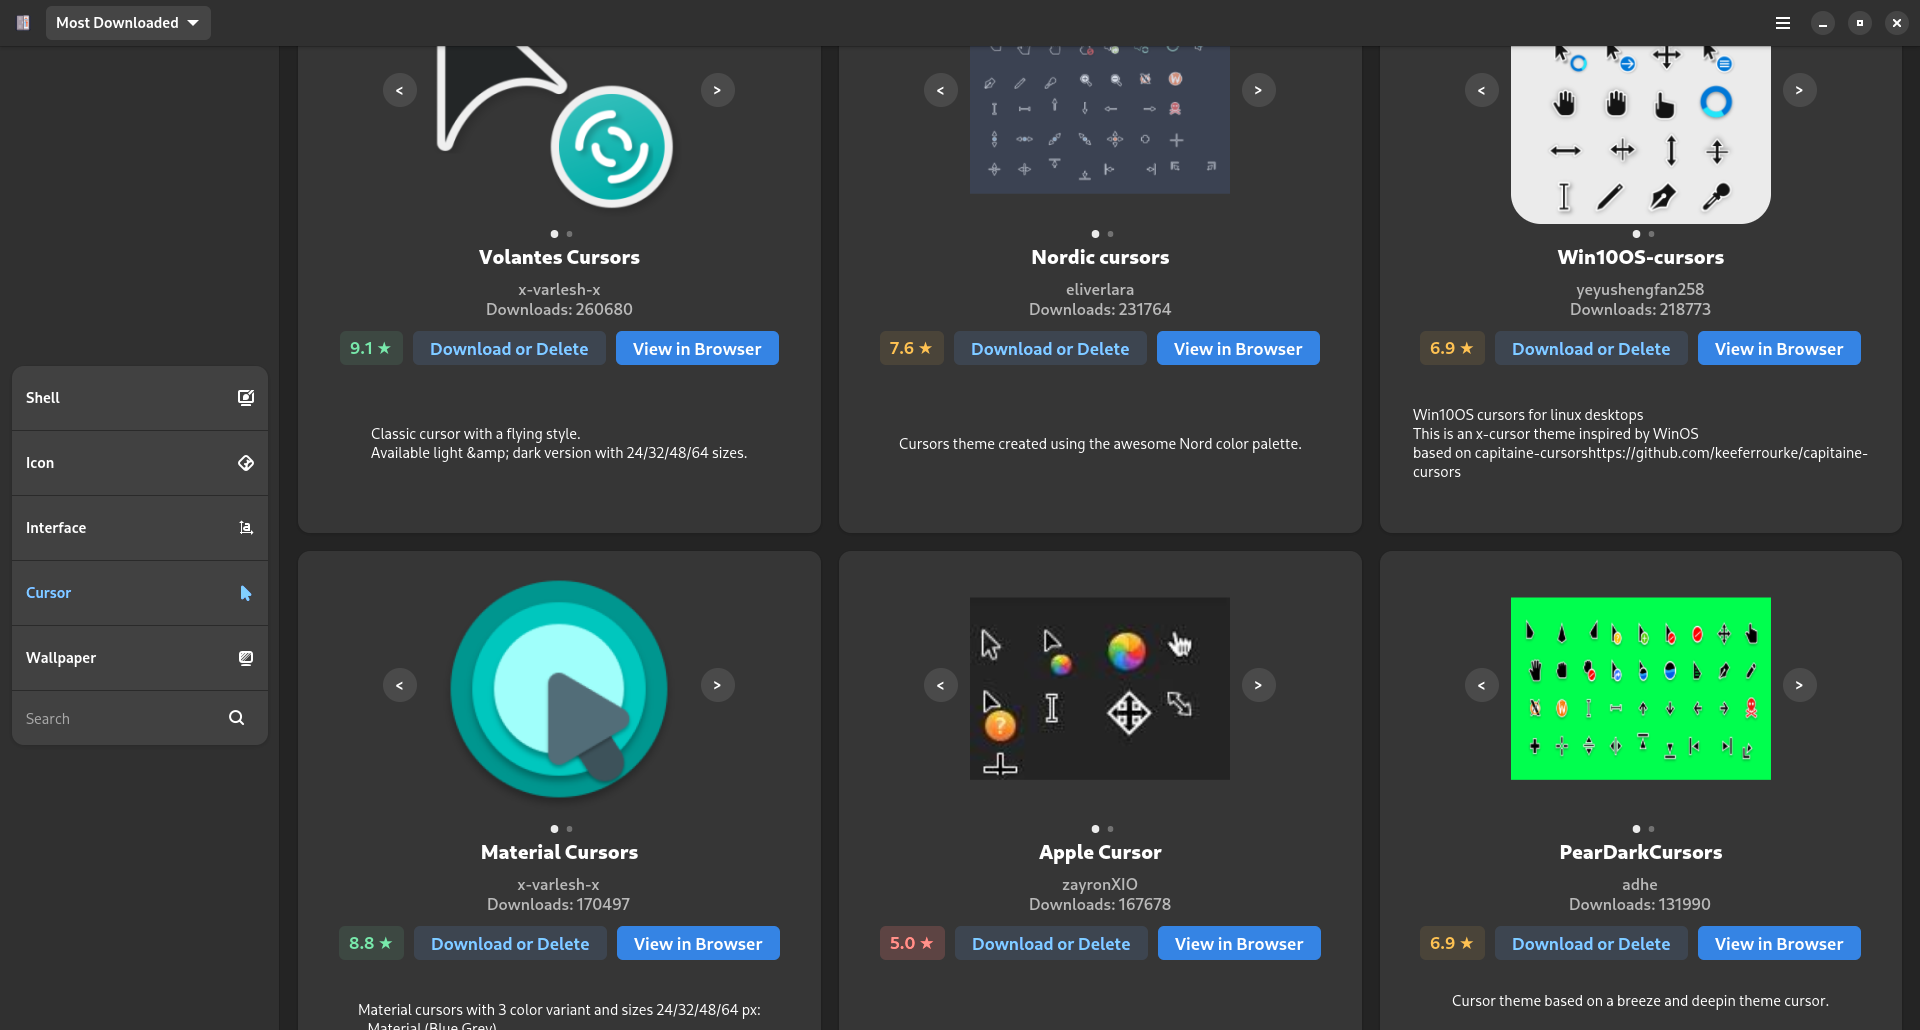
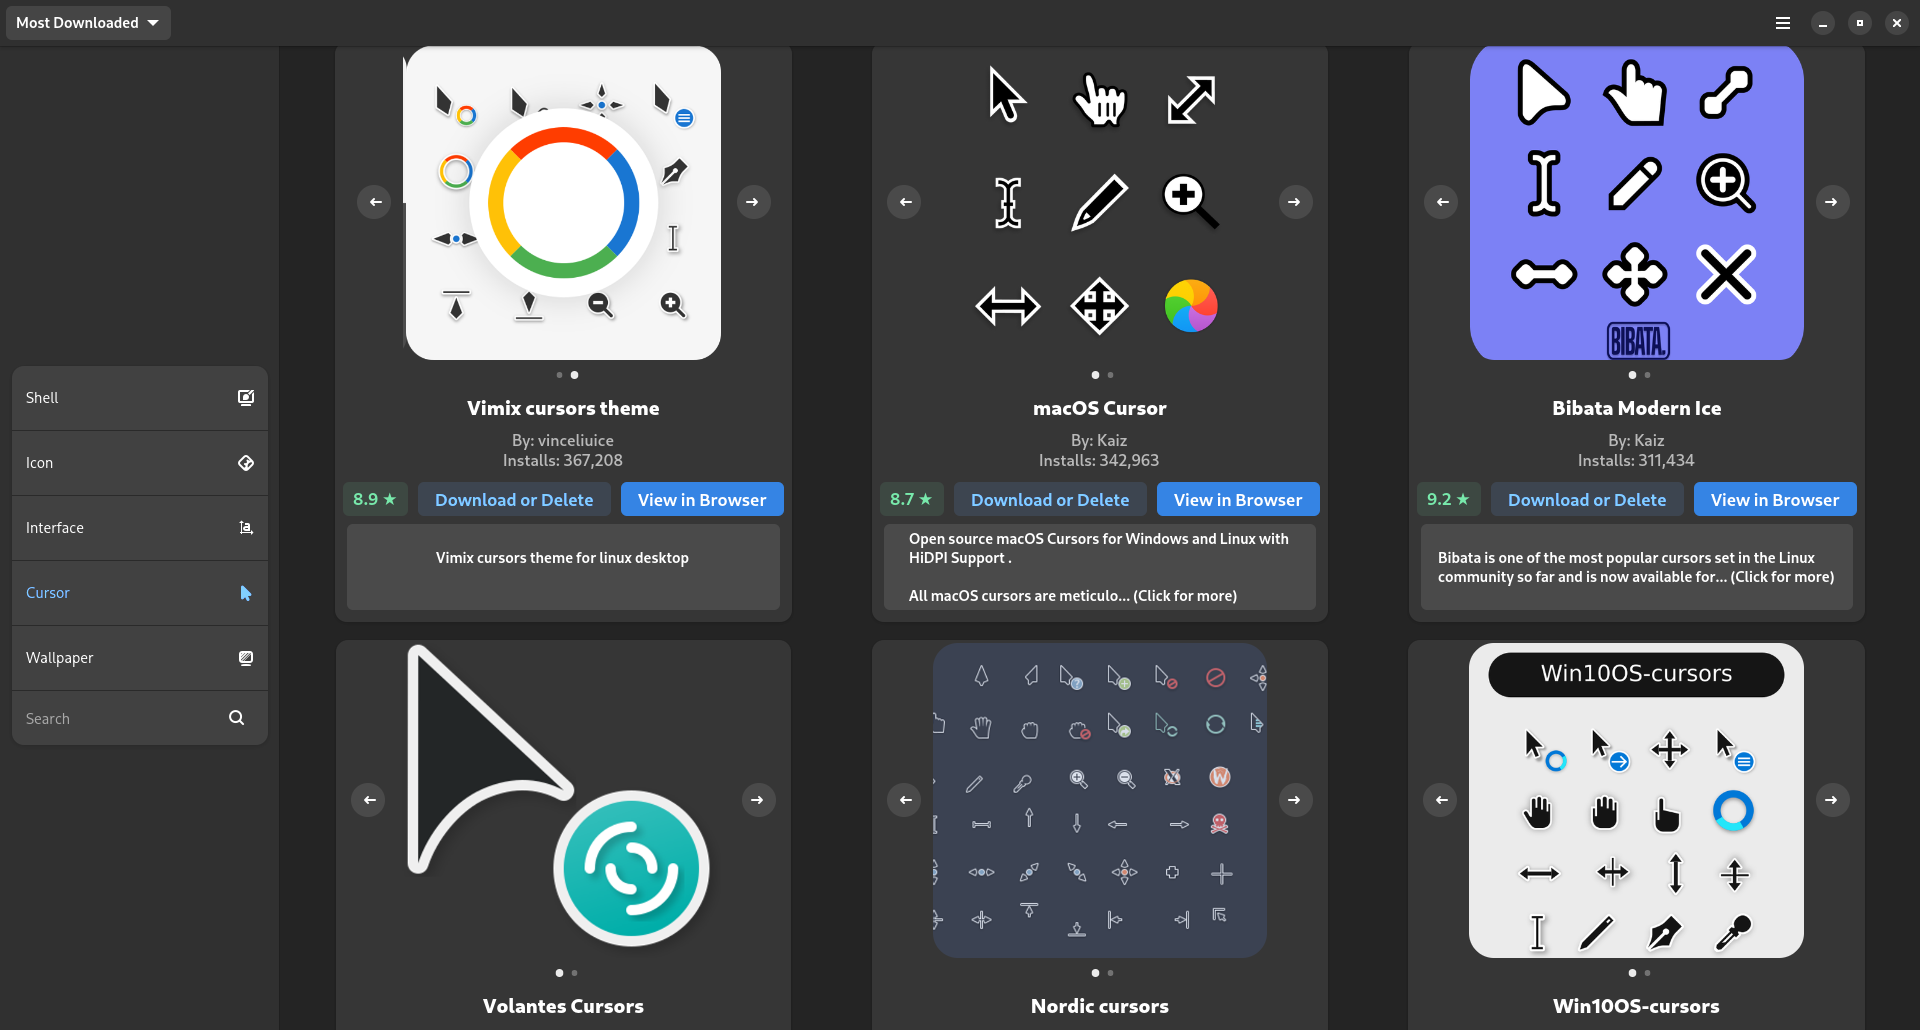
Files for v1.0.9

diff --git a/src/window.py b/src/window.py
@@ -40,10 +40,10 @@ class WardrobeWindow(Adw.ApplicationWindow):
     data_dir = GLib.getenv("HOST_XDG_DATA_HOME") #Should be ~/.local/share
     picture_dir = GLib.get_user_special_dir(GLib.UserDirectory.DIRECTORY_PICTURES) #Typically ~/Pictures
     folders = {
-        0: f"{data_dir}/themes/wardrobe-install",
-        1: f"{data_dir}/icons/wardrobe-install",
-        2: f"{data_dir}/themes/wardrobe-install",
-        3: f"{data_dir}/icons/wardrobe-install",
+        0: f"{data_dir}/themes/wardrobe-installs",
+        1: f"{data_dir}/icons/wardrobe-installs",
+        2: f"{data_dir}/themes/wardrobe-installs",
+        3: f"{data_dir}/icons/wardrobe-installs",
         4: f"{picture_dir}/",
         5: f"{GLib.get_user_data_dir()}"
     }
@@ -51,6 +51,7 @@ class WardrobeWindow(Adw.ApplicationWindow):
     activated = None
     category_box = None
     search_url = None
+    save_function = None
     error_label = Gtk.Label(label=_("No results found :("))
     error_label.add_css_class("error"); error_label.add_css_class("title-4")
 
@@ -184,7 +185,7 @@ class WardrobeWindow(Adw.ApplicationWindow):
             elif(str(type(child)) == "<class 'gi.repository.Gtk.Button'>" or str(type(child)) == "<class 'gi.repository.Gtk.Label'>"):
                 self.category_box.remove(child)
         if(not flowbox_in_theme_grid):
-            theme_grid = Gtk.FlowBox(row_spacing=12, homogeneous=False, max_children_per_line=5, selection_mode=Gtk.SelectionMode.NONE)
+            theme_grid = Gtk.FlowBox(row_spacing=12, max_children_per_line=5, selection_mode=Gtk.SelectionMode.NONE)
             self.category_box.append(theme_grid)
             scrollbox = Gtk.ScrolledWindow(vexpand=True, child=self.category_box)
             self.page.set_content(scrollbox)
@@ -226,7 +227,7 @@ class WardrobeWindow(Adw.ApplicationWindow):
         if(int(root.findall(".//meta")[0].find("itemsperpage").text) < self.cell_count):
             self.loading(False)
             return
-        next_page_button = Gtk.Button(label=_("Next Page"), vexpand=True, margin_top=10)
+        next_page_button = Gtk.Button(label=_("Next Page"), margin_top=10)
         self.category_box.append(next_page_button)
         next_page_button.connect("clicked", self.on_next_page_clicked)
 
@@ -253,21 +254,21 @@ class WardrobeWindow(Adw.ApplicationWindow):
 
         label = Gtk.Label(label=_(title), justify=Gtk.Justification.CENTER, wrap=True, margin_start=12, margin_end=12)
         label.add_css_class("title-2")
-        creator_label = Gtk.Label(label=_(creator) + "\nInstalls: " + downloads, justify=Gtk.Justification.CENTER, margin_bottom=12)
+        creator_label = Gtk.Label(label=(_("By: ")) + creator + (_("\nInstalls: ")) + downloads, justify=Gtk.Justification.CENTER, margin_bottom=12)
         creator_label.add_css_class("creator-title")
 
         label_box = Gtk.Box(orientation=Gtk.Orientation.VERTICAL, valign=Gtk.Align.CENTER, spacing=10)
         label_box.append(label)
         label_box.append(creator_label)
 
-        carousel_box = Gtk.Box()
-        carousel = Adw.Carousel(halign=Gtk.Align.CENTER, margin_top=8, allow_scroll_wheel=False)
+        carousel_box = Gtk.Box(height_request=315, margin_start=3, margin_end=3, margin_top=3)
+        carousel = Adw.Carousel(allow_scroll_wheel=False, hexpand=True)
         carousel_box.prepend(carousel)
+        main_box = Gtk.Box(orientation=Gtk.Orientation.VERTICAL, visible=False)
         for image in image_links:
-            self.get_image_from_url(image, _, carousel)
+            self.get_image_from_url(image, _, carousel, main_box)
 
-        indicators = Adw.CarouselIndicatorDots(carousel=carousel, halign=Gtk.Align.CENTER, margin_top=5)
-        main_box = Gtk.Box(orientation=Gtk.Orientation.VERTICAL)
+        indicators = Adw.CarouselIndicatorDots(carousel=carousel, halign=Gtk.Align.CENTER, margin_top=5, margin_bottom=10)
         main_box.append(indicators)
 
         button_box = Gtk.Box(orientation=Gtk.Orientation.HORIZONTAL, halign=Gtk.Align.CENTER, spacing=10, margin_start=8, margin_end=8, margin_bottom=8)
@@ -307,10 +308,13 @@ class WardrobeWindow(Adw.ApplicationWindow):
             prev_button.connect("clicked", self.on_prev_clicked, carousel)
             next_button.connect("clicked", self.on_next_clicked, carousel)
 
-        label_box.append(description_label)
-        main_box.prepend(carousel_box)
+        if(self.carousel_image_count == 0):
+            main_box.set_visible(True)
+        else:
+            main_box.prepend(carousel_box)
         main_box.append(label_box)
         main_box.append(button_box)
+        main_box.append(description_label)
         theme_box.prepend(main_box)
         cell = Gtk.Frame(child=theme_box); cell.add_css_class("card")
         clamp = Adw.Clamp(maximum_size=400, tightening_threshold=250, child=cell)
@@ -338,21 +342,21 @@ class WardrobeWindow(Adw.ApplicationWindow):
             index = 0
             carousel.scroll_to(carousel.get_nth_page(0), 250)
 
-    def get_carousel_images(self, session, result, message, carousel):
+    def get_carousel_images(self, session, result, message, carousel, main_box):
         bytes = session.send_and_read_finish(result)
         if(message.get_status() != Soup.Status.OK):
             raise Exception(f"Got {message.get_status()}, {message.get_reason_phrase()}")
-        image = Gtk.Image.new_from_paintable(Gdk.Texture.new_from_bytes(bytes))
-        # image.set_content_fit(Gtk.ContentFit.COVER)
-        image.set_pixel_size(280)
-        # clamp = Adw.Clamp(maximum_size=150, tightening_threshold=125, child=image, height_request=180)
+        image = Gtk.Picture(vexpand=True, hexpand=True).new_for_paintable(Gdk.Texture.new_from_bytes(bytes))
+        image.set_content_fit(Gtk.ContentFit.COVER)
         carousel.append(image)
+        main_box.set_visible(True)
+        image.add_css_class("rounded")
         self.loading(False)
 
-    def get_image_from_url(self, url, row, carousel):
+    def get_image_from_url(self, url, row, carousel, main_box):
         session = Soup.Session()
         message = Soup.Message(method="GET", uri=GLib.Uri.parse(url, GLib.UriFlags.NONE))
-        session.send_and_read_async(message, GLib.PRIORITY_DEFAULT, None, self.get_carousel_images, message, carousel)
+        session.send_and_read_async(message, GLib.PRIORITY_DEFAULT, None, self.get_carousel_images, message, carousel, main_box)
 
     def loading(self, activate):
         self.spinner.set_spinning(activate)
@@ -404,23 +408,23 @@ class WardrobeWindow(Adw.ApplicationWindow):
 
         file_path = shutil.os.path.join(folder_path, name)
 
-        def save_download(response):
-            with open(file_path, 'wb') as file:
-                file.write(response)
-            print(f'File downloaded successfully to {file_path}')
-
-            if(any(ext in file_path for ext in [".png", ".jpg", ".svg", ".jpeg", ".gif", ".bmp", ".webp", ".tiff", ".tif"])):
-                head_folders = [ file_path ]
-            else:
-                head_folders = arrange_folders(file_path, folder_path, index)
-                shutil.os.remove(file_path)
+        def save_download(head_folders):
             self.downloaded[name] = list(head_folders)
             writer = open(f"{self.folders[5]}/downloaded.txt", "w")
             writer.write(f"{self.downloaded}")
             writer.close()
             self.update_button_to_delete(button, name, link, index, list(head_folders))
 
-        self.soup_get(link, save_download)
+        def download_and_extract_file(response):
+            with open(file_path, 'wb') as file:
+                file.write(response)
+            print(f'File downloaded successfully to {file_path}')
+            if(any(ext in file_path for ext in [".png", ".jpg", ".svg", ".jpeg", ".gif", ".bmp", ".webp", ".tiff", ".tif"])):
+                save_download([file_path])
+            else:
+                arrange_folders(file_path, folder_path, index, save_download)
+
+        self.soup_get(link, download_and_extract_file)
 
     def update_button_to_delete(self, button, name, link, index, installed_folders):
         button.set_icon_name("user-trash-symbolic")
@@ -453,7 +457,7 @@ class WardrobeWindow(Adw.ApplicationWindow):
                 if(shutil.os.path.isdir(installed_folders[0])):
                     for root, dirs, files in shutil.os.walk(installed_folders[0]):
                         for file in files:
-                            if any(ext in file for ext in [".png", ".jpg", ".svg", ".jpeg", ".gif", ".bmp", ".webp", ".tiff", ".tif"]):
+                            if(any(ext in file for ext in [".png", ".jpg", ".svg", ".jpeg", ".gif", ".bmp", ".webp", ".tiff", ".tif"])):
                                 image = shutil.os.path.join(root, file)
                 else:
                     image = installed_folders[0]
@@ -515,3 +519,4 @@ class WardrobeWindow(Adw.ApplicationWindow):
 
     def on_view_button_clicked(self, button, theme_url):
         webbrowser.open(theme_url)
+

diff --git a/src/utils.py b/src/utils.py
@@ -20,12 +20,11 @@
 import os, shutil, gi, random
 
 gi.require_version('GnomeAutoar', '0.1')
-from gi.repository import GnomeAutoar, Gio, GLib
+from gi.repository import GnomeAutoar, Gio, GLib, Gdk, Gtk, GdkPixbuf
 
 #Some theme developers do not package the folders in their theme in the correct order
 #arrange_folders moves everything into the right order
-
-def arrange_folders(archive_path, theme_dir, index):
+def arrange_folders(archive_path, theme_dir, index, save_function):
     check_path = os.path.dirname(theme_dir)
     for item in os.listdir(check_path): #removes null symlinks
         if(os.path.islink(os.path.join(check_path, item))):
@@ -36,8 +35,9 @@ def arrange_folders(archive_path, theme_dir, index):
     archive_file = Gio.File.new_for_path(archive_path)
     destination_dir = Gio.File.new_for_path(theme_dir)
     extractor = GnomeAutoar.Extractor.new(archive_file, destination_dir)
+    extractor.set_delete_after_extraction(True)
 
-    def resolve_conflicts(extractor):
+    def resolve_conflicts(extractor, before, archive_path, theme_dir, index, save_function):
         # Get the directory contents after extraction
         after = set(os.listdir(theme_dir))
         added = after - before
@@ -57,7 +57,8 @@ def arrange_folders(archive_path, theme_dir, index):
 
         for download_dir in head_folders:
             if(index == 4):
-                return head_folders # Does not verify wallpapers
+                save_function(head_folders) # Does not verify wallpapers
+                return
             elif(index == 1):
                 icon_folders = os.listdir(download_dir)
                 added = {}
@@ -84,7 +85,8 @@ def arrange_folders(archive_path, theme_dir, index):
                     os.symlink(download_dir, f"{os.path.dirname(theme_dir)}/" + f"{os.path.basename(download_dir)}")
                 after = set(os.listdir(check_path))
                 added = list(after - before)
-                return list(head_folders.union(set(added)))
+                save_function(list(head_folders.union(set(added))))
+                return
             os.mkdir(download_dir + "-wardrobe_install"); new_path = download_dir + "-wardrobe_install"
             for folder_name in folders[index]:
                 for root, dirs, files in os.walk(download_dir, topdown=False):
@@ -105,12 +107,17 @@ def arrange_folders(archive_path, theme_dir, index):
             os.rename(new_path, new_path.replace("-wardrobe_install", ""))
             os.symlink(new_path.replace("-wardrobe_install", ""), f"{os.path.dirname(theme_dir)}/" + f"{os.path.basename(new_path.replace('-wardrobe_install', ''))}")
             head_folders.add(os.path.basename(new_path.replace('-wardrobe_install', '')))
-            return head_folders
+            save_function(head_folders)
+            return
 
     extractor.start_async()
-    extractor.connect("completed", resolve_conflicts)
+    extractor.connect("completed", resolve_conflicts, before, archive_path, theme_dir, index, save_function)
 
 css = """
+    .rounded {
+      border-radius: 25px;
+      border: 0px solid;
+    }
     .creator-title {
         opacity: 0.65;
         font-size: 12pt;
@@ -124,4 +131,3 @@ css = """
         border: 0px solid;
     }
 """
-

diff --git a/src/main.py b/src/main.py
@@ -44,7 +44,7 @@ class WardrobeApplication(Adw.Application):
         about = Adw.AboutDialog(application_name='Wardrobe',
                                 application_icon='io.github.swordpuffin.wardrobe',
                                 developer_name='Nathan Perlman',
-                                version='1.0.7',
+                                version='1.0.9',
                                 developers=['Nathan Perlman'],
                                 copyright='© 2025 Nathan Perlman')
         # Translators: Replace "translator-credits" with your name/username, and optionally an email or URL.
